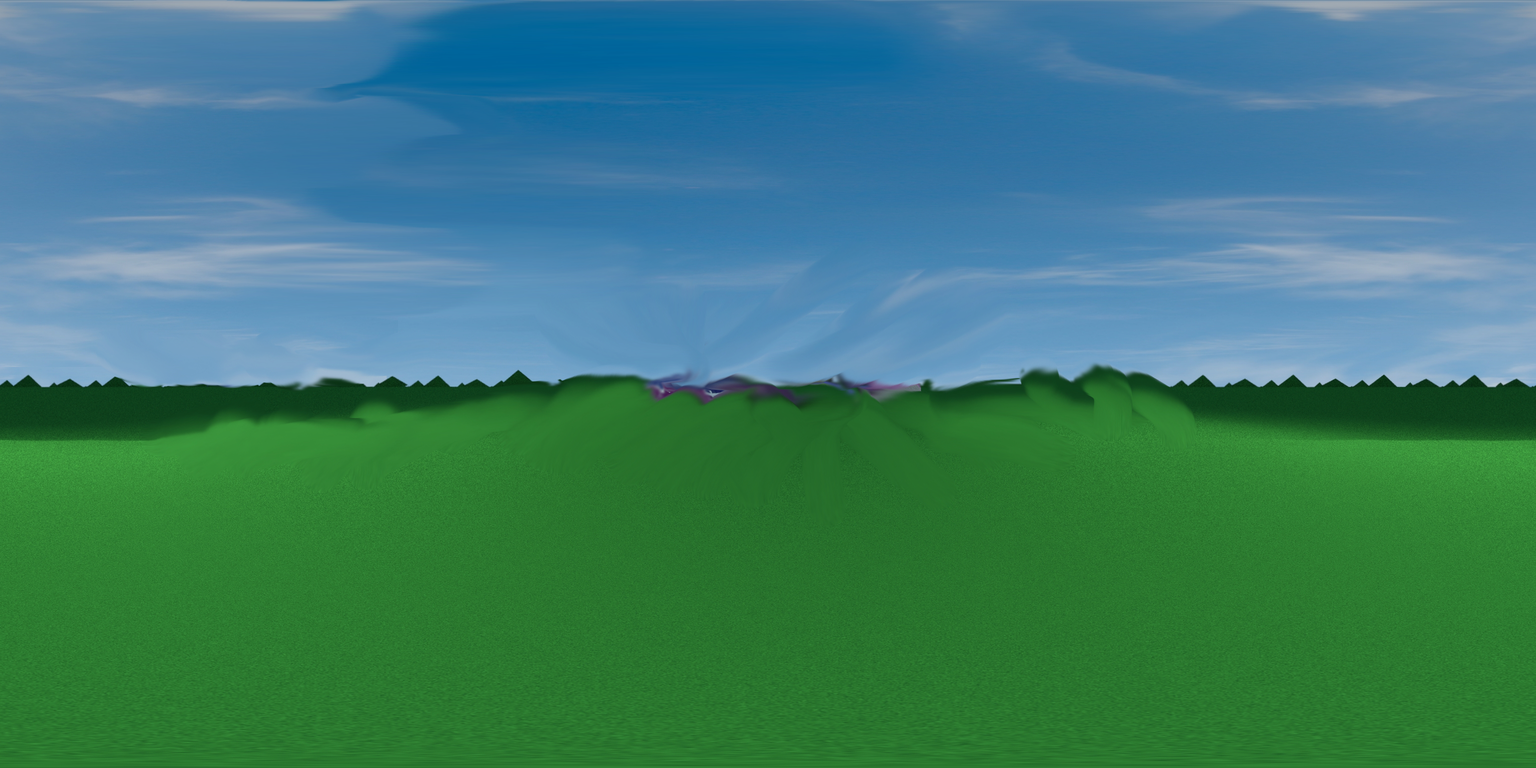
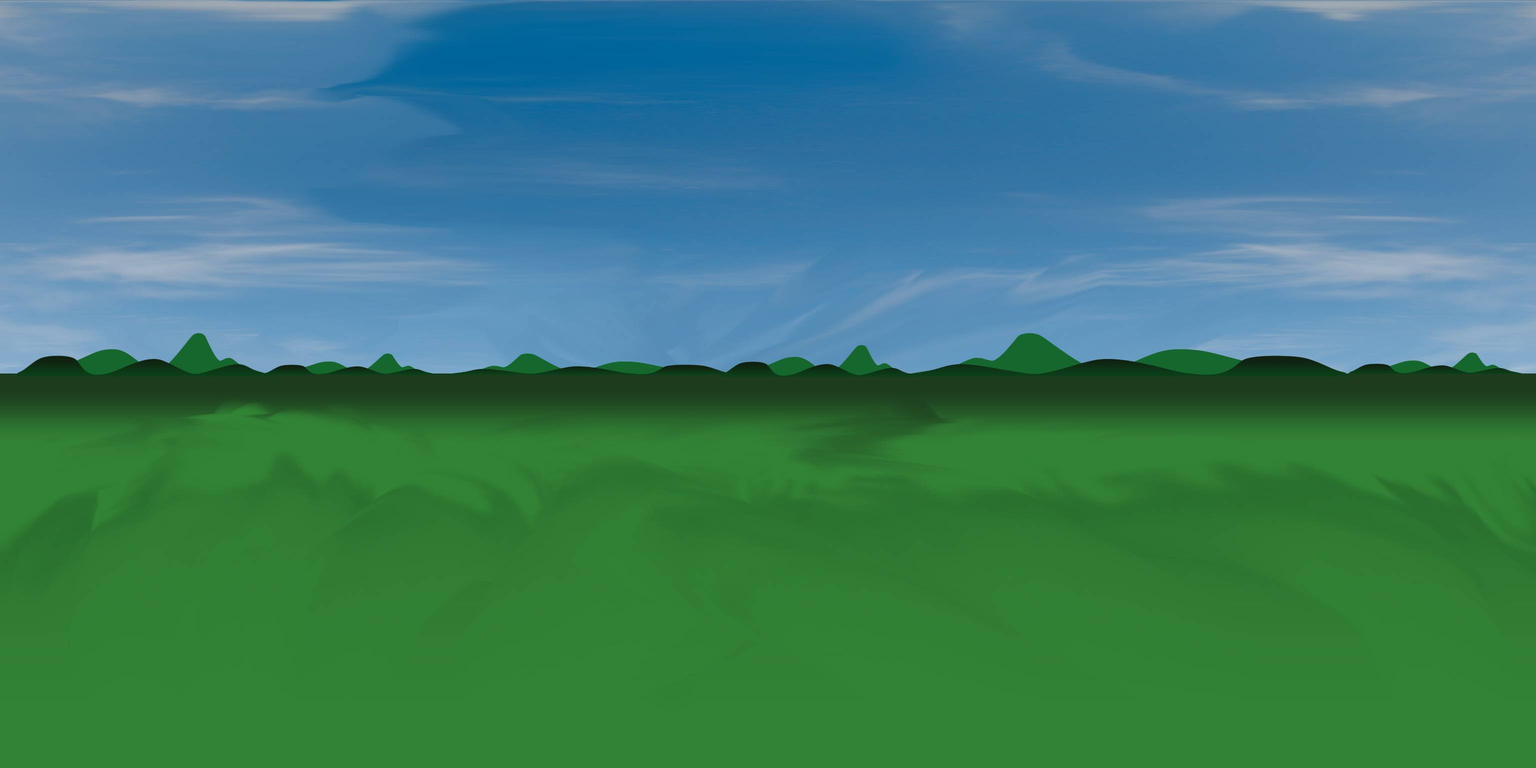
Submodeul updatate

diff --git a/posterlens-config.js b/posterlens-config.js
@@ -47,7 +47,7 @@ datas[0] = {
               4.089801957752406,
               0
             ],
-            "scale": 5,
+            "scale": 3,
             "alwaysLookatCamera": true,
             "animatedMap": "3",
             "animatedMapSpeed": 1
@@ -106,6 +106,7 @@ datas[0] = {
           },
           {
             "name": "door environment",
+            "opacity": 0.9,
             "type": "poster3d",
             "pos": [
               122.76077111742909,
@@ -119,7 +120,7 @@ datas[0] = {
               3.6526499654878397,
               0
             ],
-            "scale": 214.3588810000002,
+            "scale": 100,
             "animated": "always",
             "hoverText": "Click to know all projects",
             "link": "Environment Pano"
@@ -215,6 +216,7 @@ datas[0] = {
                   155.8512377612073,
                   -300.92337515941523
                 ],
+                "opacity": 0.6, 
                 "image": "resources/environment.jpg",
                 "sprite": true,
                 "rot": [
@@ -222,7 +224,7 @@ datas[0] = {
                   3.6526499654878397,
                   0
                 ],
-                "scale": 214.3588810000002,
+                "scale": 150,
                 "animated": "always",
                 "hoverText": "Back",
                 "link": "Hall"

diff --git a/index.php b/index.php
@@ -39,18 +39,11 @@
                 newParams.image = 'resources/poster'+posterIndex+'.jpg';
                 newParams.hoverText = newParams.image;
                 newParams.modal = 'resources/pdf.pdf';
-                console.log(newParams.image);
+                //console.log(newParams.image);
                 window.pl.createNewObjectFromParams(window.pl.viewer.panorama, newParams);
                 // console.log(`angle:  ${i}º : ${x} ${y}`);
             }
 
-            // Check whether control button is pressed
-            document.addEventListener( 'keydown' ,function(event) {
-                if (event.which == "17") window.pl.cntrlIsPressed = true;
-            });
-            document.addEventListener( 'keyup' ,function(event) {
-                    window.pl.cntrlIsPressed = false;
-            });
 
             window.OpacityTween = function(object) {
                 object.material.opacity = 0;
@@ -58,35 +51,49 @@
                 object.opacityTween = t;
                 return t;
             }
-            var enviromental = [
-                'casita',
-                'mujer',
-                'natura',
-            ];
+            window.PopupTween = function(object) {
+                object.originalPositionY = object.position.y;
+                object.position.y = -200;
+                const t = new TWEEN.Tween( object.position ).to( { y: object.originalPositionY }, 500).easing( TWEEN.Easing.Elastic.Out );;
+                object.popupTween = t;
+                return t;
+            }
+
+            var enviromental = {
+                'casita': [25, 100] ,
+                'mujer': [25, 100],
+                'natura': [25, 100],
+            };
+            // this doesnt recongineze objects becasue they are not still created. Should be done when created.
+            Object.keys(enviromental).forEach( k => {
+                const [min, max] = enviromental[k];
+                const object = pl.getObjectByName(k);
+                
+                if (!object) return;
+                // init setup for animation (hide object)
+                object.originalPositionY = object.position.y;
+                object.position.y = -200;
+                const t = new TWEEN.Tween( object.position ).to( { y: object.originalPositionY }, 500).easing( TWEEN.Easing.Elastic.Out );;
+                object.popupTween = t;
+                object.popupAnimationFn = () => {
+                    const angle = window.pl.viewer.camera.direction;
+
+                    if ( angle < max && angle > min) {
+                        object.popupTween.start();
+                        window.pl.viewer.addUpdateCallback( object.popupAnimationFn );
+                    }
+                }
+                window.pl.viewer.addUpdateCallback( object.popupAnimationFn );
+            })
+            
+
             window.pl.viewer.addUpdateCallback( function() {
-                //if (window.pl.cntrlIsPressed)
+                //if (window.pl.controlIsPressed)
 
                 const newDirection = window.pl.getCameraAngle('deg');
                 if (newDirection === window.pl.viewer.camera.direction) 
                 return;
-                
-                if (!pl.TweenAplied) {
-                    enviromental.forEach( nam => {
-                        const ob = pl.getObjectByName(nam);
-                        if (!ob) return;
-                        OpacityTween(ob);
-                        pl.TweenAplied = true;
-                     } );
-                }
-
-                if (!pl.enviromentalTweenPlayed && newDirection < 100 && newDirection > 25) {
-                    // activate things.
-                    pl.enviromentalTweenPlayed = true;
-                    enviromental.forEach( o => {
-                        const ob = pl.getObjectByName(o);
-                        ob.opacityTween.start();
-                    });
-                }
+               
 
                 window.pl.viewer.camera.direction = newDirection;
             });
